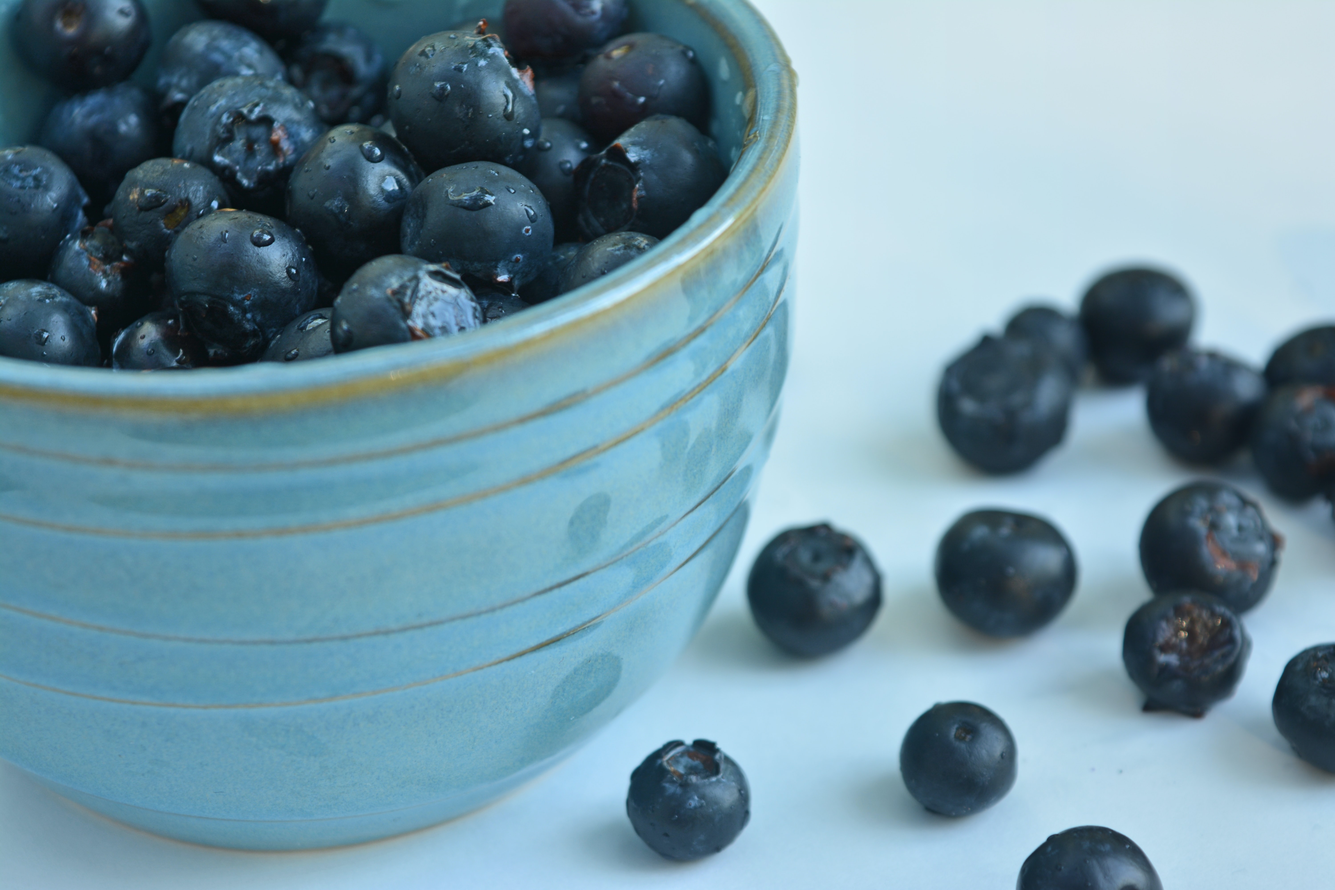
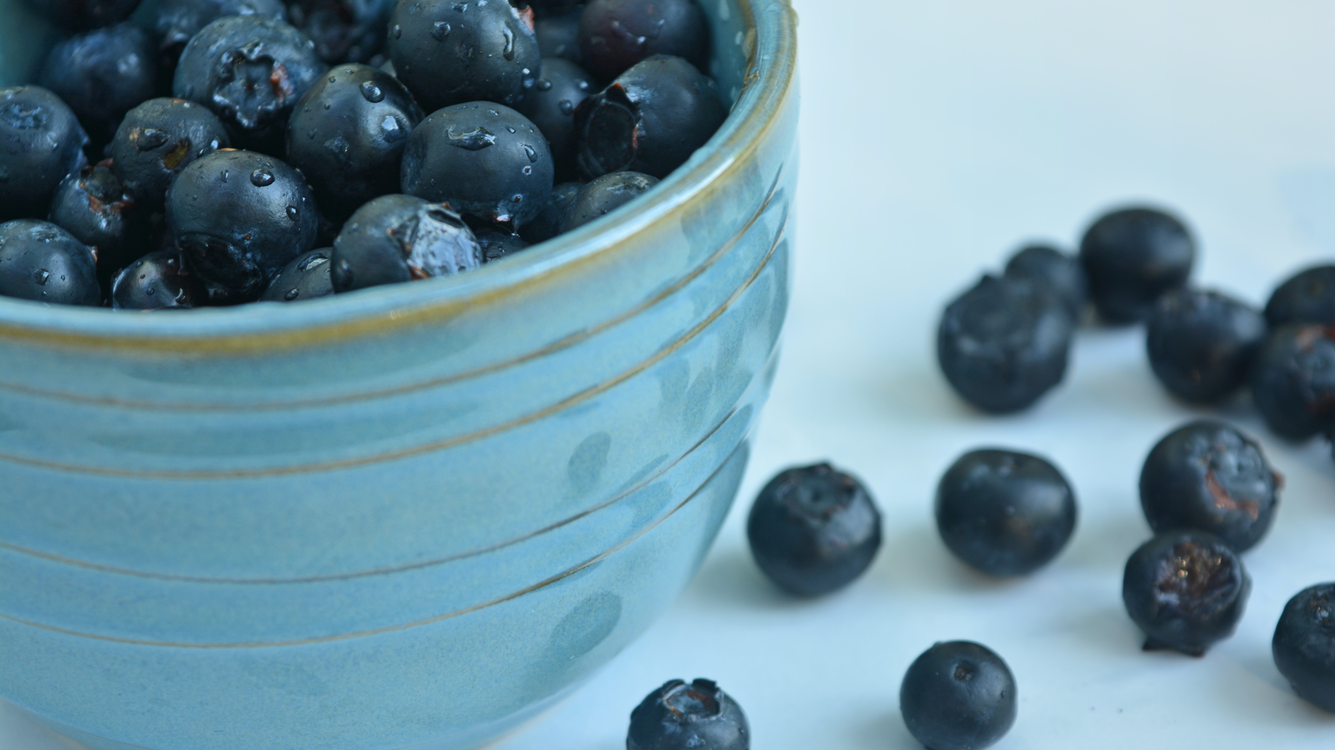
promena

diff --git a/index.html b/index.html
@@ -14,12 +14,35 @@
         <a href="#kontakt">Kontakt</a>
       </div>
     </div>
-    <div class="Flex-container" style="width: 1400px; margin-right: 0px; float: left; display: block;"> 
-      <img src="pictures/limun.jpg" alt="Limun">
-      <img src="pictures/cinija.jpg" alt="Borovnice">
-      <img src="pictures/jagode.jpg" alt="Jagode">
+   <!--
+      <div class="Flex-container" >
+        <ul class="Slajderi">
 
+          <li>
+           
+            <img src="pictures/limun.jpg" width="100%" height="100%">
+          </li> 
+          <li>
+            
+            <img src="pictures/cinija.jpg" alt="">
+          </li>
+          <li>
+            
+            <img src="pictures/jagode.jpg" alt="">
+          </li>
+        </ul>
 
-    </div>
+      </div>
+      -->
+      <div class="Slide-container">
+        <div class="Image-container">
+          <img src="pictures/limun.jpg" class= "slider-img">
+          <img src="pictures/jagode.jpg" class="slider-img">
+          
+        </div>
+
+      </div>
+
+    
   </body>
 </html>

diff --git a/styles/style.css b/styles/style.css
@@ -24,13 +24,32 @@
 .Navigacija a.active {
   background-color: #607bae;
 }
-.Flex-container{
+.Flex-parent{
   display: flex;
   flex-direction: row;
   flex-wrap: wrap;
 }
-img.Flex-container{
-  width: 1400px;
-  height: 1400px;
+.Flex-child{
+  flex-basis: 30%;
+
+}
+.Slide-container{
+  width: 5184p;
+  height: 2916px;
+}
+.Image-container{
+  width: 15000px;
+  height: 3000px;
+  position: relative;
+  transition: left 2s;
+  
+}
+.slider-img{
+  float: left;
+  margin: 0px;
+  padding: 0px;
+
+
+
 }
 
